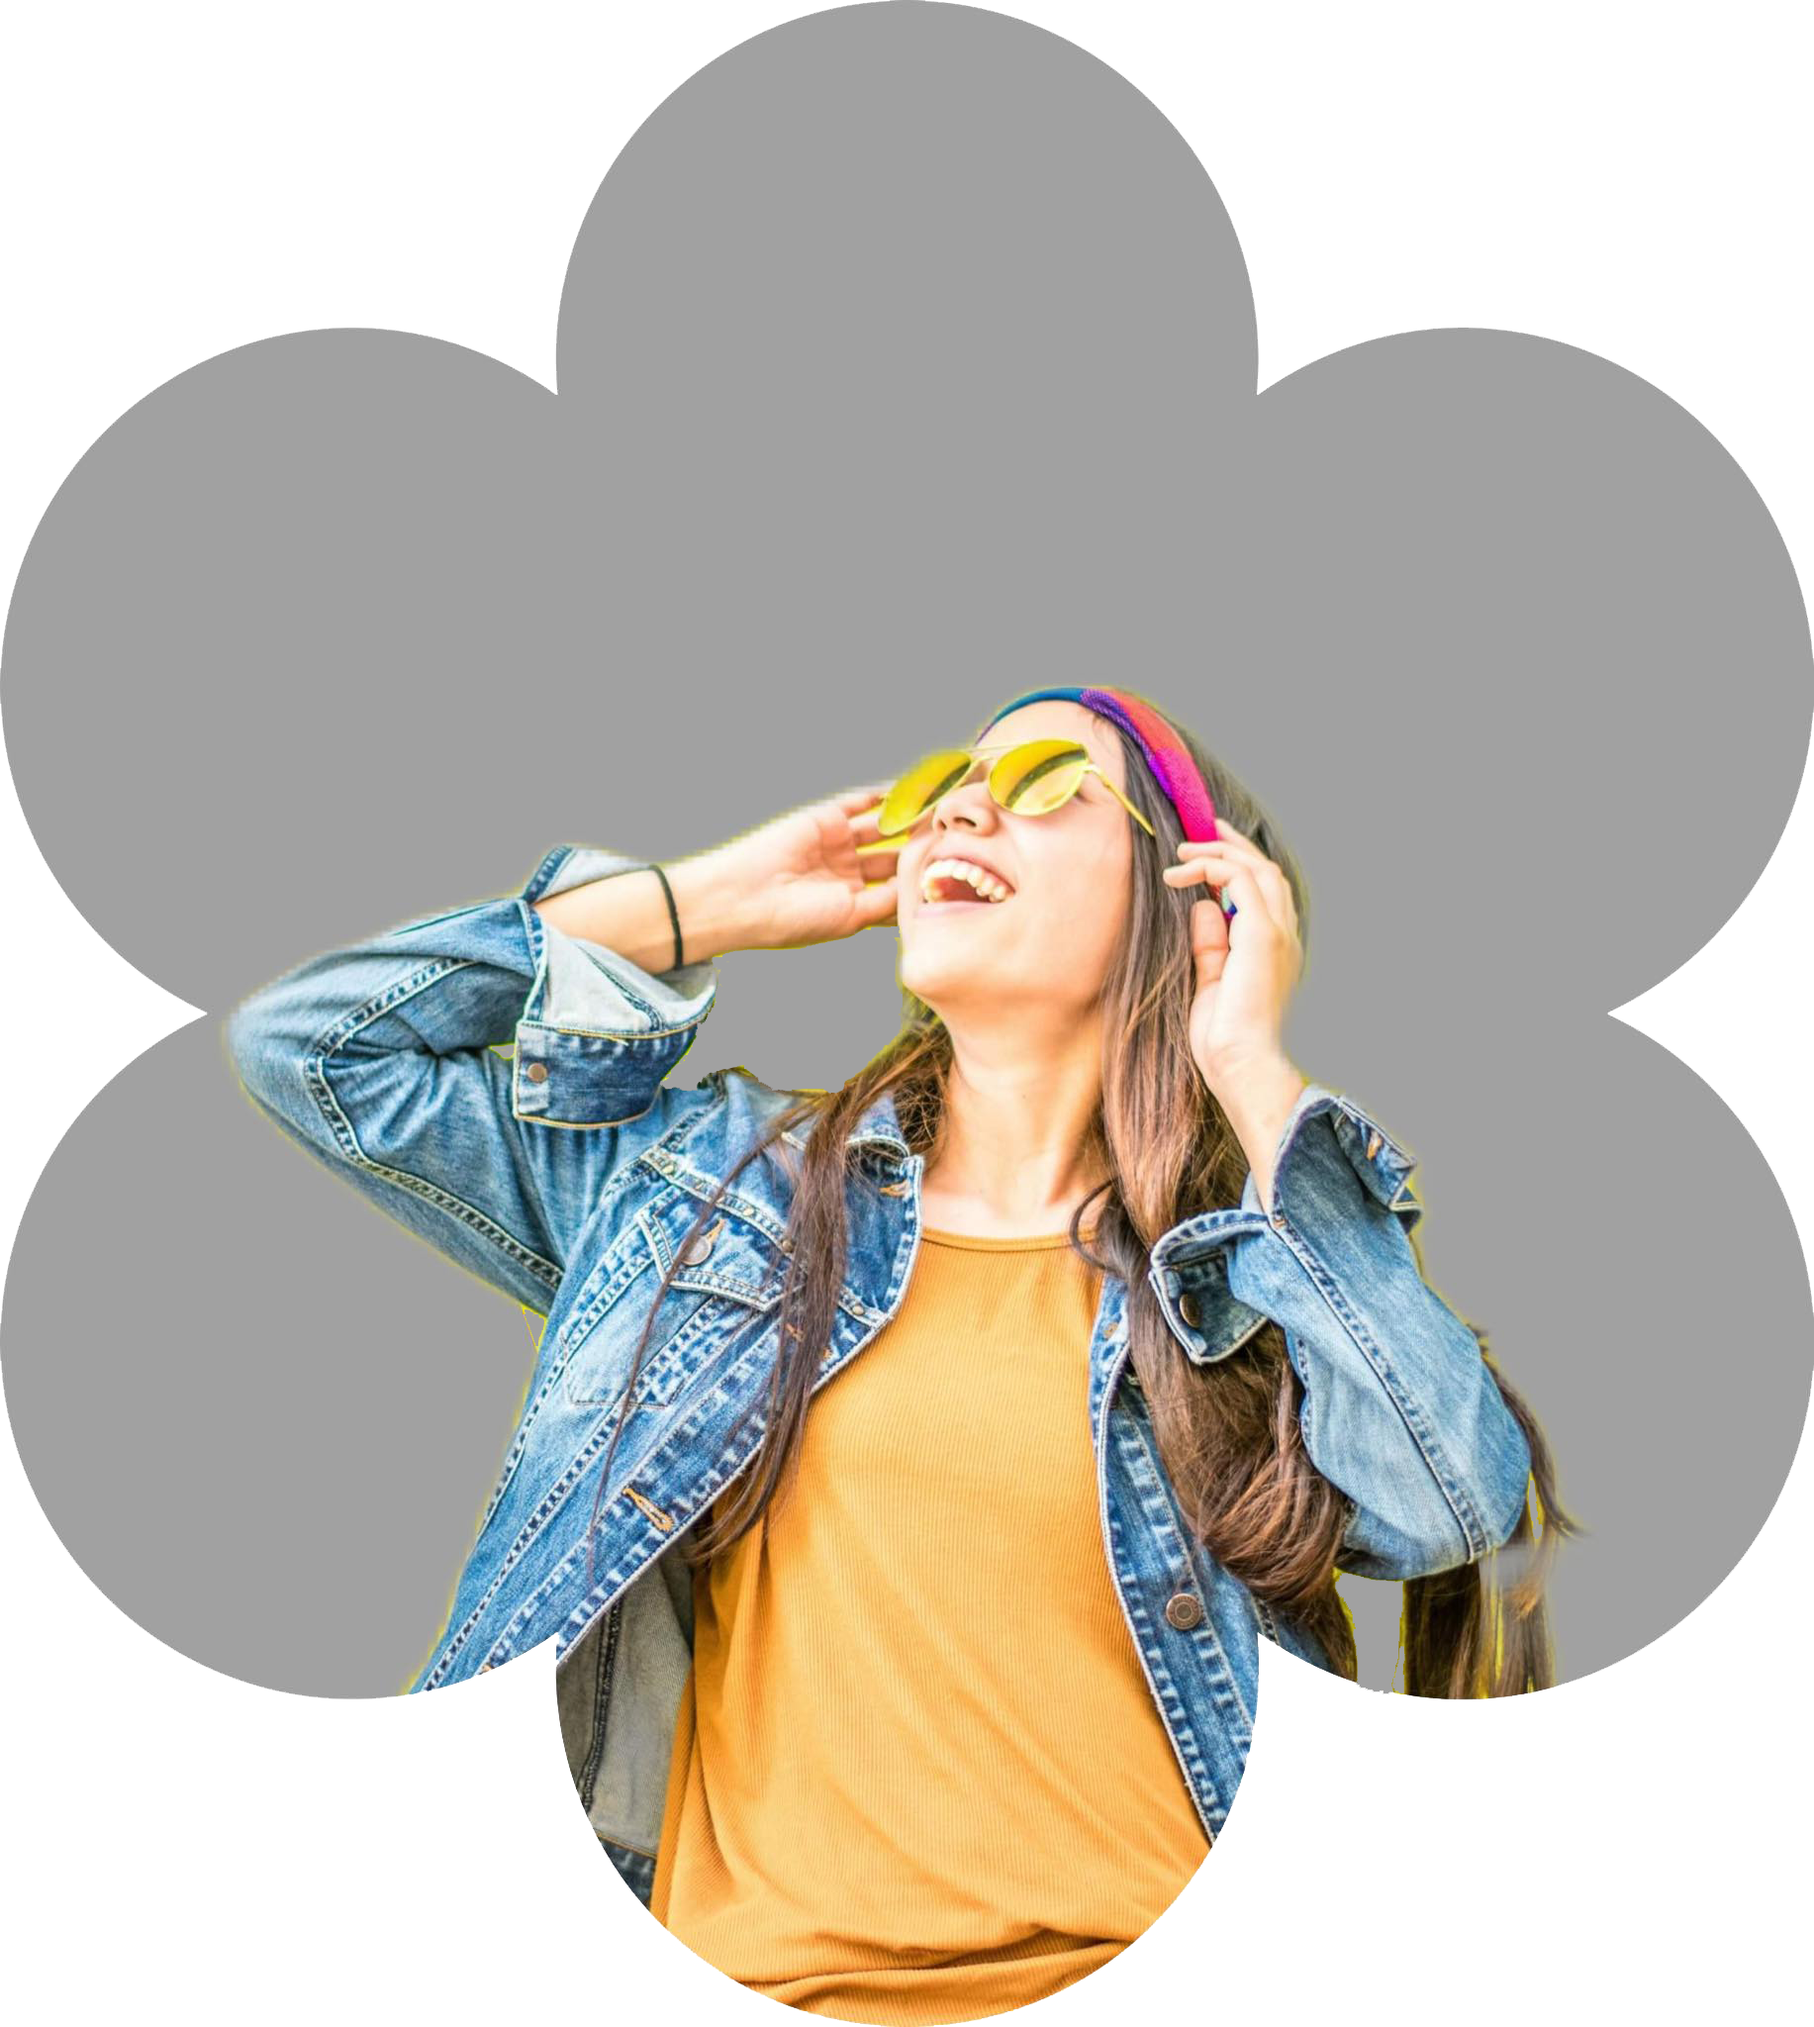
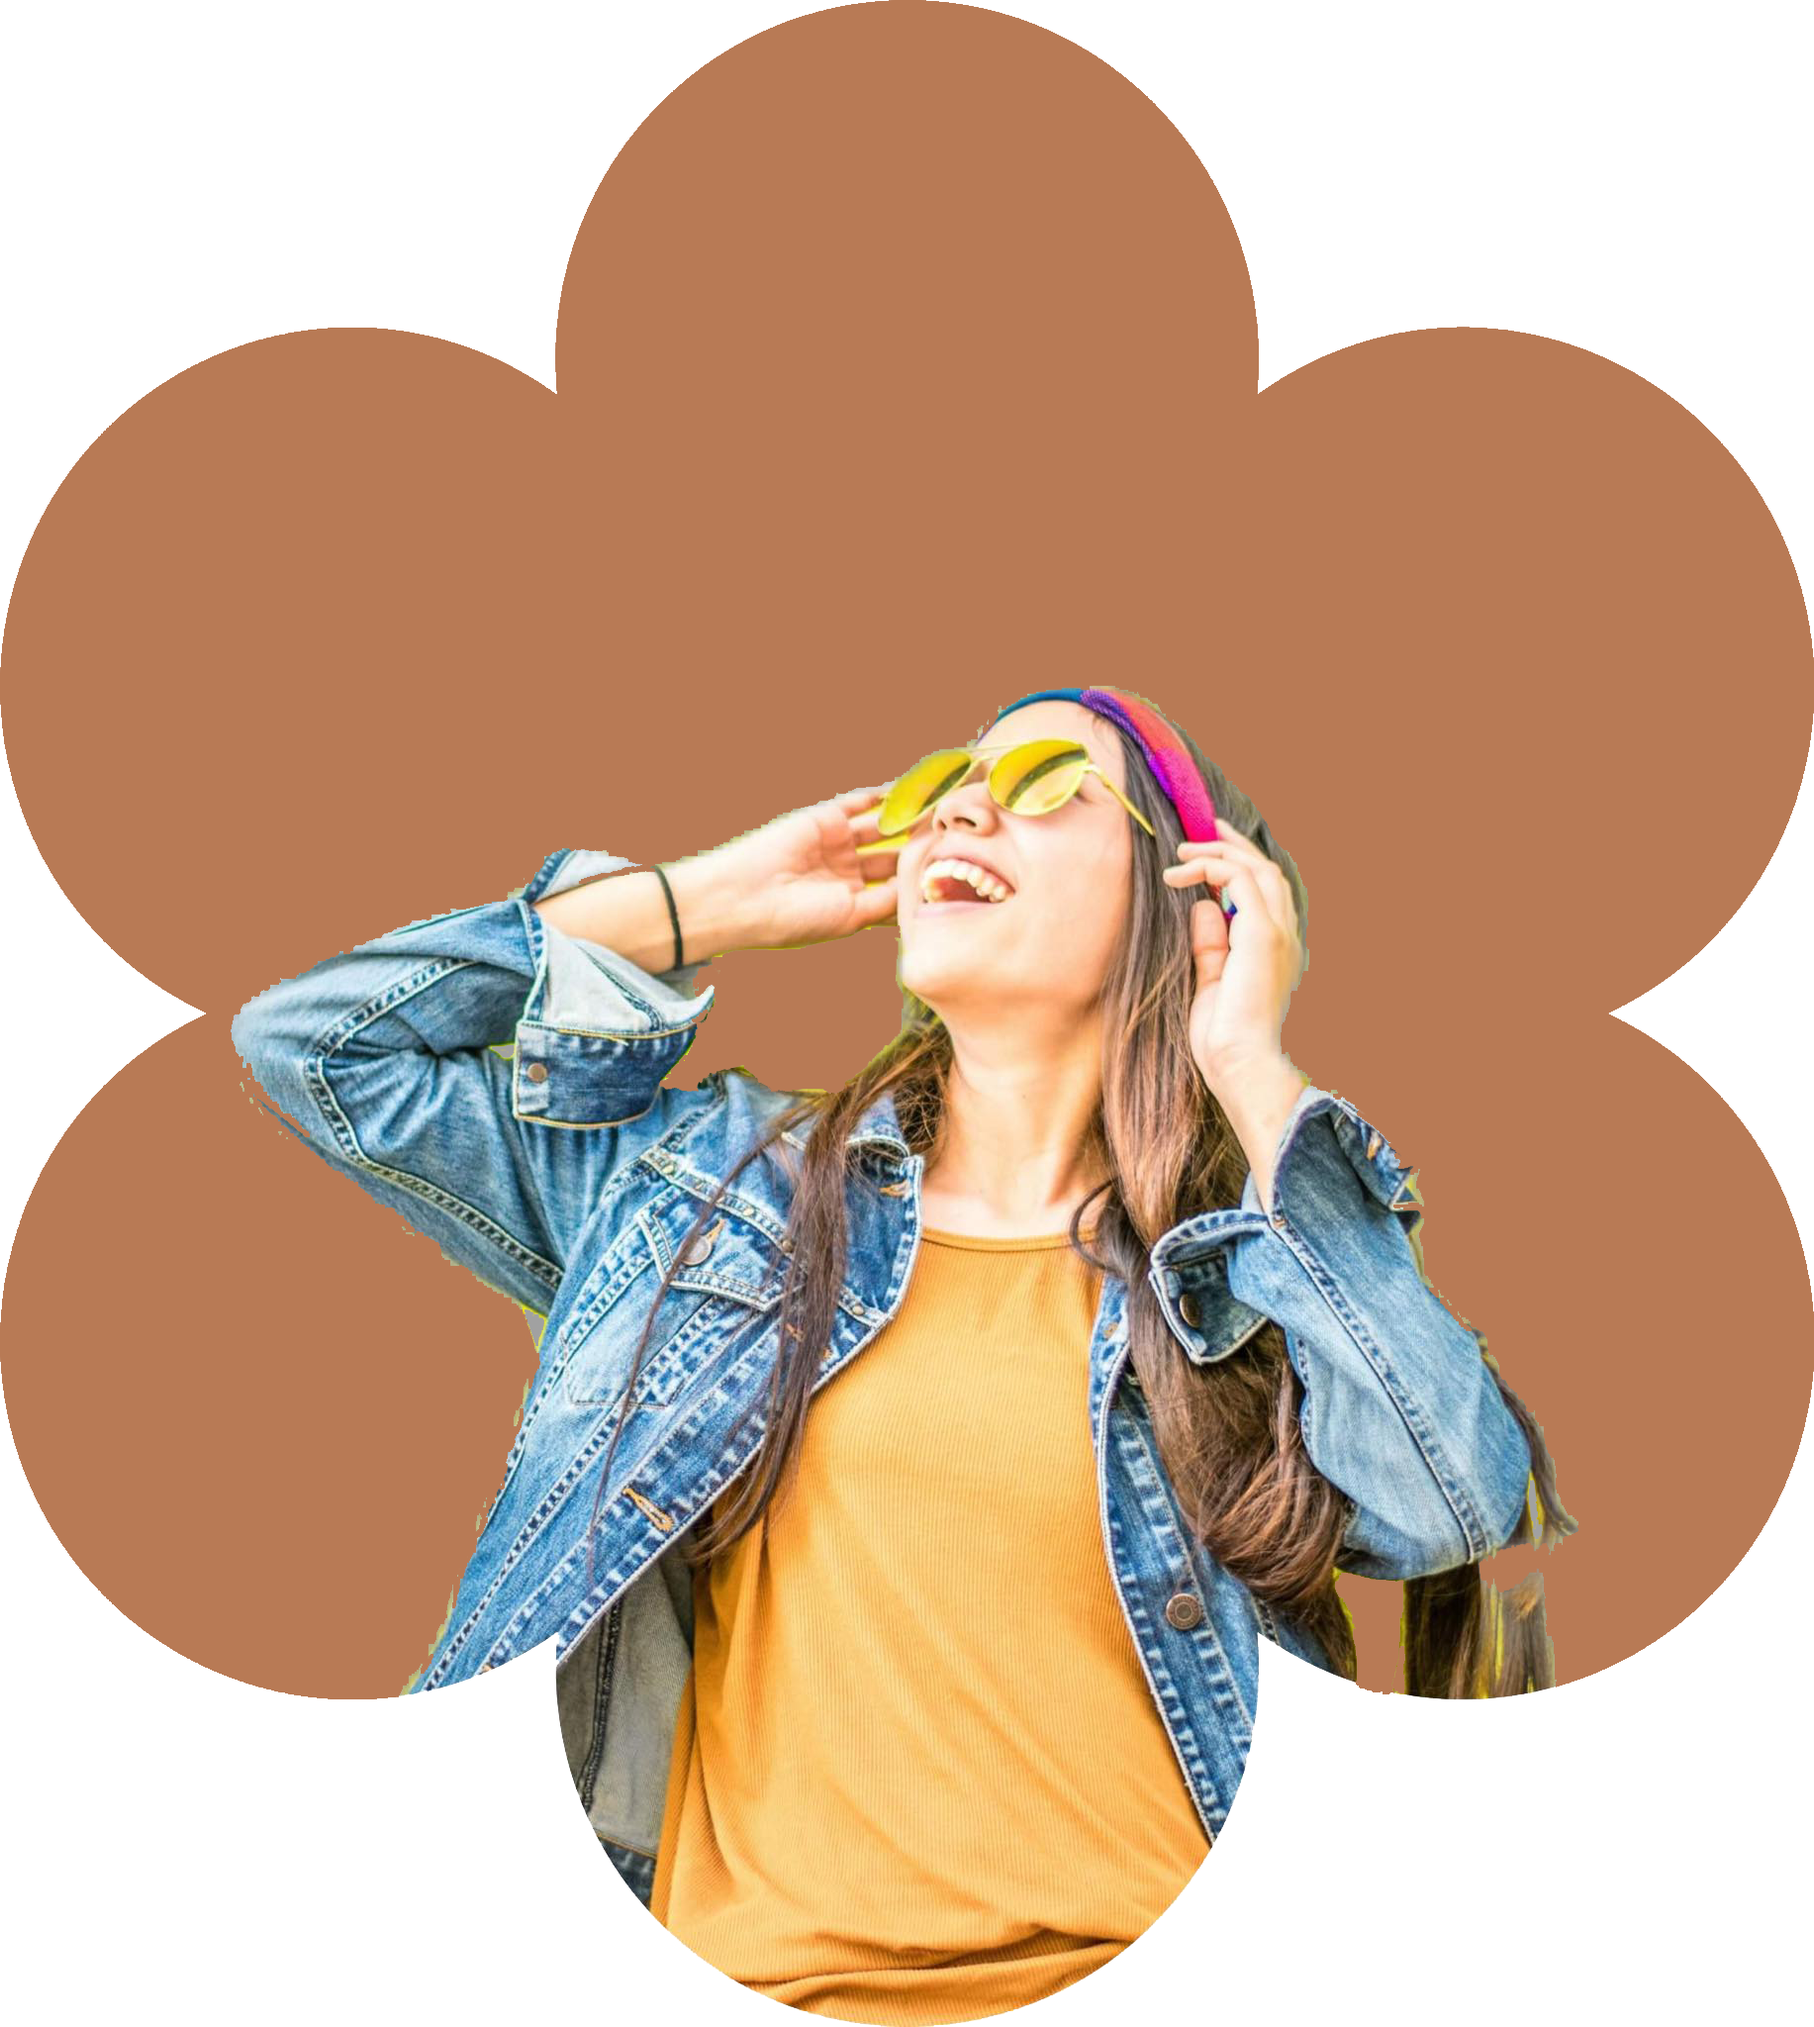
Updated a file
Changed the color of png

diff --git a/src/Components/FrontPoster/Poster.css b/src/Components/FrontPoster/Poster.css
@@ -49,3 +49,13 @@
   margin-left: 200px;
   width: 700px;
 }
+.poster-right img {
+  margin-top: 120px;
+  margin-right: 250px;
+  height: auto;
+  width: 550px;
+  flex: 1;
+  display: flex;
+  align-items: center;
+  justify-content: center;
+}
